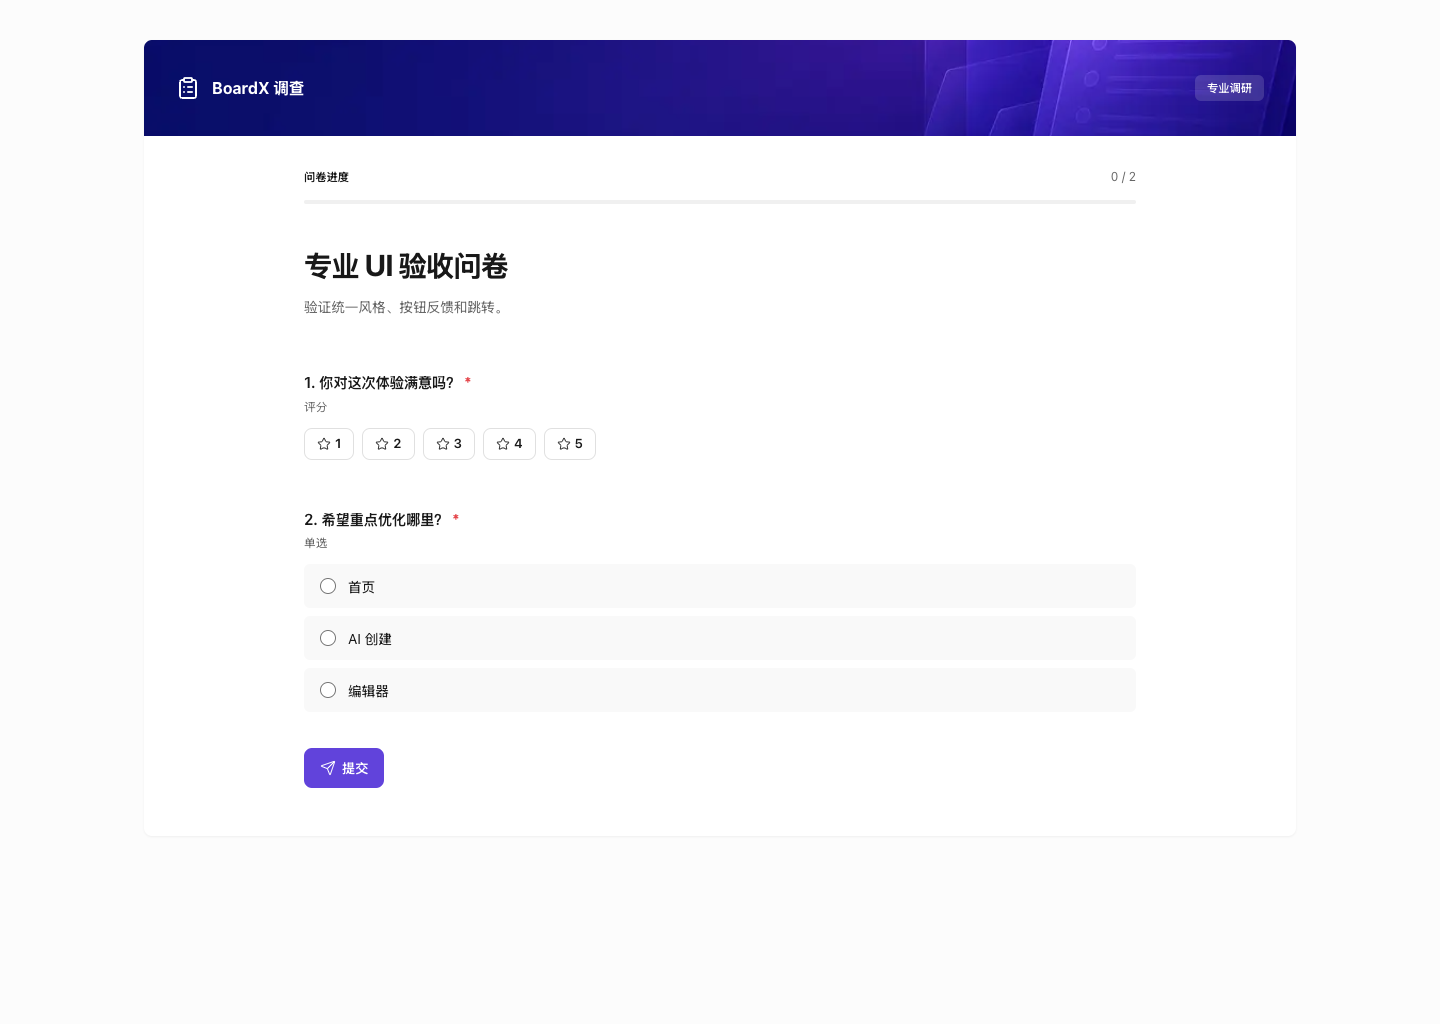
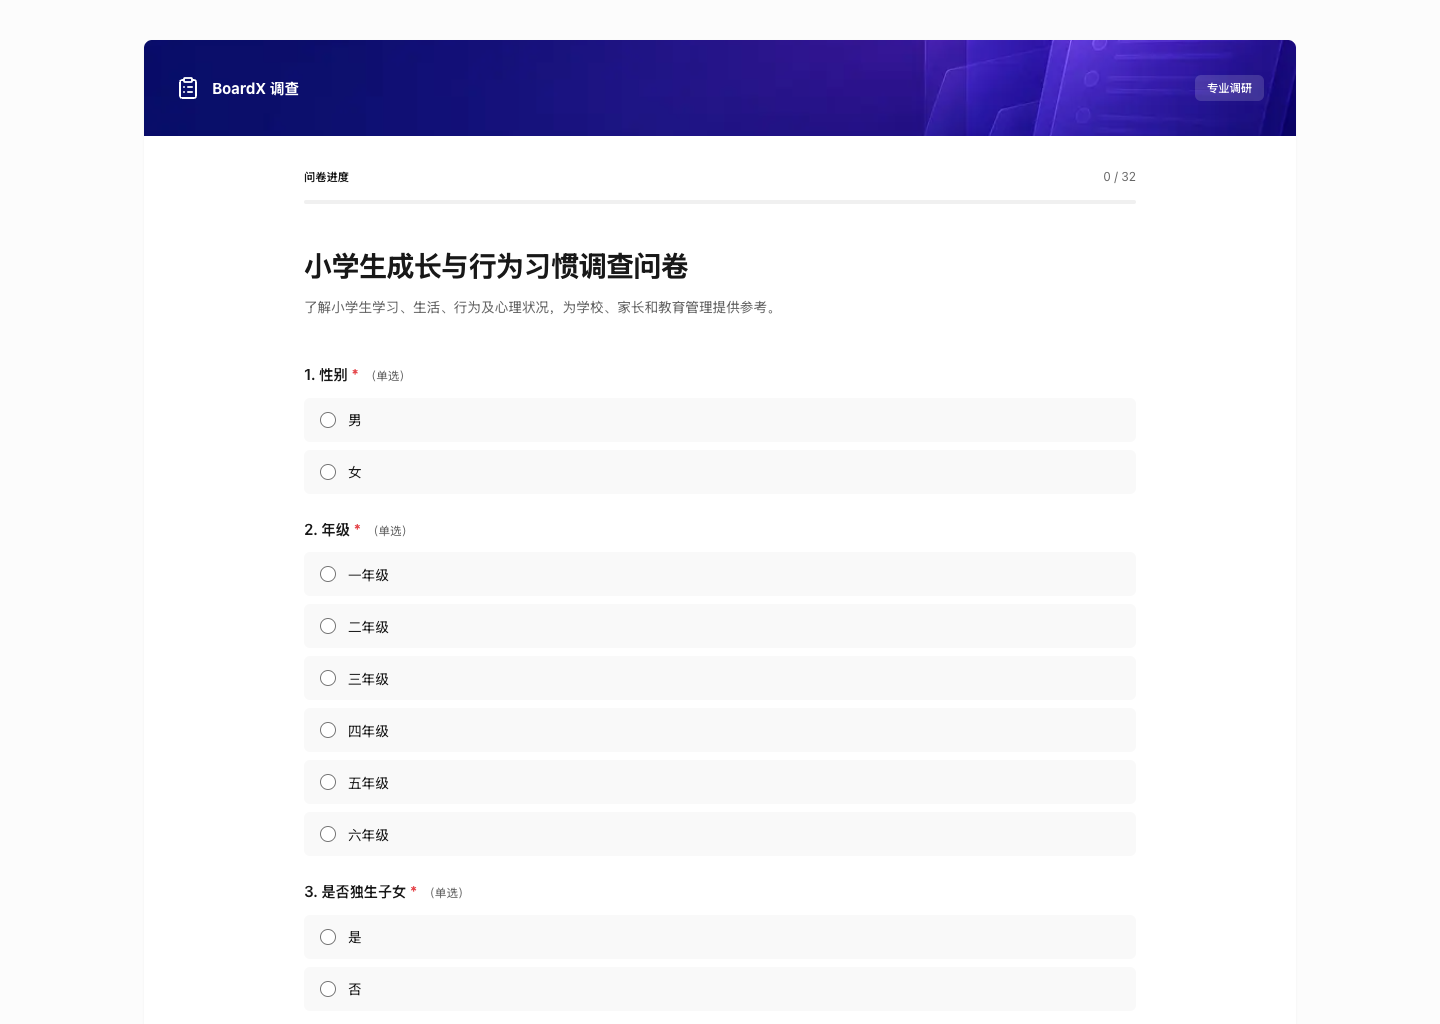
fix(survey): tighten question layout

diff --git a/apps/web/app/(app)/surveys/page.tsx b/apps/web/app/(app)/surveys/page.tsx
@@ -6714,15 +6714,19 @@ export default function SurveysPage() {
                   <h2 className="mt-8 text-30 font-bold tracking-tight text-foreground">{title.trim() || "未命名问卷"}</h2>
                   {description.trim() && <p className="mt-2 text-14 leading-6 text-muted-foreground">{description}</p>}
                 </header>
-                <div data-testid="preview-question-list" className="space-y-2">
+                <div data-testid="preview-question-list" className="space-y-0">
                   {questions.map((q, idx) => (
-                    <section key={q.id} data-testid={`preview-question-${idx}`} className="py-5">
-                      <p className="text-15 font-semibold text-foreground">
-                        {idx + 1}. {q.title.trim() || `问题 ${idx + 1}`}
-                        {q.required && <span className="ml-1 text-destructive">*</span>}
-                      </p>
-                      <p className="mt-1 text-12 text-muted-foreground">{TYPE_LABEL[q.type]}</p>
-                      <div className="mt-3"><QuestionPreviewAnswer question={q} questionIndex={idx} /></div>
+                    <section key={q.id} data-testid={`preview-question-${idx}`} className="py-3">
+                      <div className="flex flex-wrap items-baseline gap-x-1.5">
+                        <p className="text-15 font-semibold text-foreground">
+                          {idx + 1}. {q.title.trim() || `问题 ${idx + 1}`}
+                          {q.required && <span className="ml-1 text-destructive">*</span>}
+                        </p>
+                        <span data-testid={`preview-question-type-${idx}`} className="text-12 text-muted-foreground">
+                          （{TYPE_LABEL[q.type]}）
+                        </span>
+                      </div>
+                      <div className="mt-2"><QuestionPreviewAnswer question={q} questionIndex={idx} /></div>
                     </section>
                   ))}
                 </div>

diff --git a/apps/web/app/survey/[id]/answer/answer-form.tsx b/apps/web/app/survey/[id]/answer/answer-form.tsx
@@ -143,19 +143,21 @@ export default function AnswerForm({ survey }: { survey: SurveyAnswerView }) {
             {survey.description && <p className="mt-2 text-14 leading-6 text-muted-foreground">{survey.description}</p>}
           </header>
 
-          <div data-testid="answer-question-list" className="space-y-2">
+          <div data-testid="answer-question-list" className="space-y-0">
             {survey.questions.map((question, idx) => {
               const key = String(question.id);
               const value = answers[key];
               return (
-                <section key={question.id} data-testid={`answer-question-${idx}`} className="py-5">
+                <section key={question.id} data-testid={`answer-question-${idx}`} className="py-3">
                 <div className="flex items-start justify-between gap-3">
-                  <div>
+                  <div className="flex flex-wrap items-baseline gap-x-1.5">
                     <p className="text-15 font-semibold text-foreground">
                       {idx + 1}. {question.title}
                       {question.required && <span className="ml-1 text-destructive">*</span>}
                     </p>
-                    <p className="mt-1 text-12 text-muted-foreground">{questionTypeLabel(question.type)}</p>
+                    <span data-testid={`answer-question-type-${idx}`} className="text-12 text-muted-foreground">
+                      （{questionTypeLabel(question.type)}）
+                    </span>
                   </div>
                 </div>
 

diff --git a/apps/web/e2e/survey-p25-002-professional-ui.spec.ts b/apps/web/e2e/survey-p25-002-professional-ui.spec.ts
@@ -85,7 +85,10 @@ test("editor shell groups the question builder, inspector, and unified paper pre
   await expect(page.getByTestId("survey-preview-sheet")).toHaveClass(/border-0/);
   await expect(page.getByTestId("survey-preview-sheet")).toHaveClass(/shadow-sm/);
   await expect(page.getByTestId("preview-question-list")).not.toHaveClass(/divide-y/);
+  await expect(page.getByTestId("preview-question-list")).toHaveClass(/space-y-0/);
   await expect(page.getByTestId("preview-question-0")).not.toHaveClass(/rounded/);
+  await expect(page.getByTestId("preview-question-0")).toHaveClass(/py-3/);
+  await expect(page.getByTestId("preview-question-type-0")).toHaveText("（单选）");
   await expect(page.getByTestId("preview-option-0-0")).toHaveClass(/border-0/);
   await expect(page.getByTestId("preview-option-0-0")).toHaveClass(/bg-muted/);
   await page.getByTestId("edit-survey").click();
@@ -103,7 +106,10 @@ test("answer and acceptance small surfaces share the professional shell", async 
   await expect(page.getByTestId("answer-professional-shell")).toHaveClass(/border-0/);
   await expect(page.getByTestId("answer-professional-shell")).toHaveClass(/shadow-sm/);
   await expect(page.getByTestId("answer-question-list")).not.toHaveClass(/divide-y/);
+  await expect(page.getByTestId("answer-question-list")).toHaveClass(/space-y-0/);
   await expect(page.getByTestId("answer-question-0")).not.toHaveClass(/rounded/);
+  await expect(page.getByTestId("answer-question-0")).toHaveClass(/py-3/);
+  await expect(page.getByTestId("answer-question-type-1")).toHaveText("（单选）");
   await expect(page.getByTestId("answer-option-1-0")).toHaveClass(/border-0/);
   await expect(page.getByTestId("answer-option-1-0")).toHaveClass(/bg-muted/);
   await page.getByTestId("submit-answer").click();

diff --git a/design-qa.md b/design-qa.md
@@ -34,6 +34,12 @@ Focused review covered the banner, progress and title region, question typograph
 - Fixes: Added the local `survey-accent` semantic token, styled the native progress element, applied violet selected/action states, and widened the outer shell from `max-w-5xl` to `max-w-6xl`.
 - Post-fix evidence: `fluent-answer-implementation.png`.
 
+### Iteration 2
+
+- Earlier P2: Question type labels occupied a separate line and question sections retained more vertical whitespace than the approved compact reading rhythm.
+- Fixes: Moved type labels inline after each title as quiet parenthetical text, reduced question list spacing to zero, and reduced section padding from `py-5` to `py-3`.
+- Post-fix evidence: Updated `fluent-answer-implementation.png`.
+
 ## Primary Interactions Tested
 
 - Required-field validation.